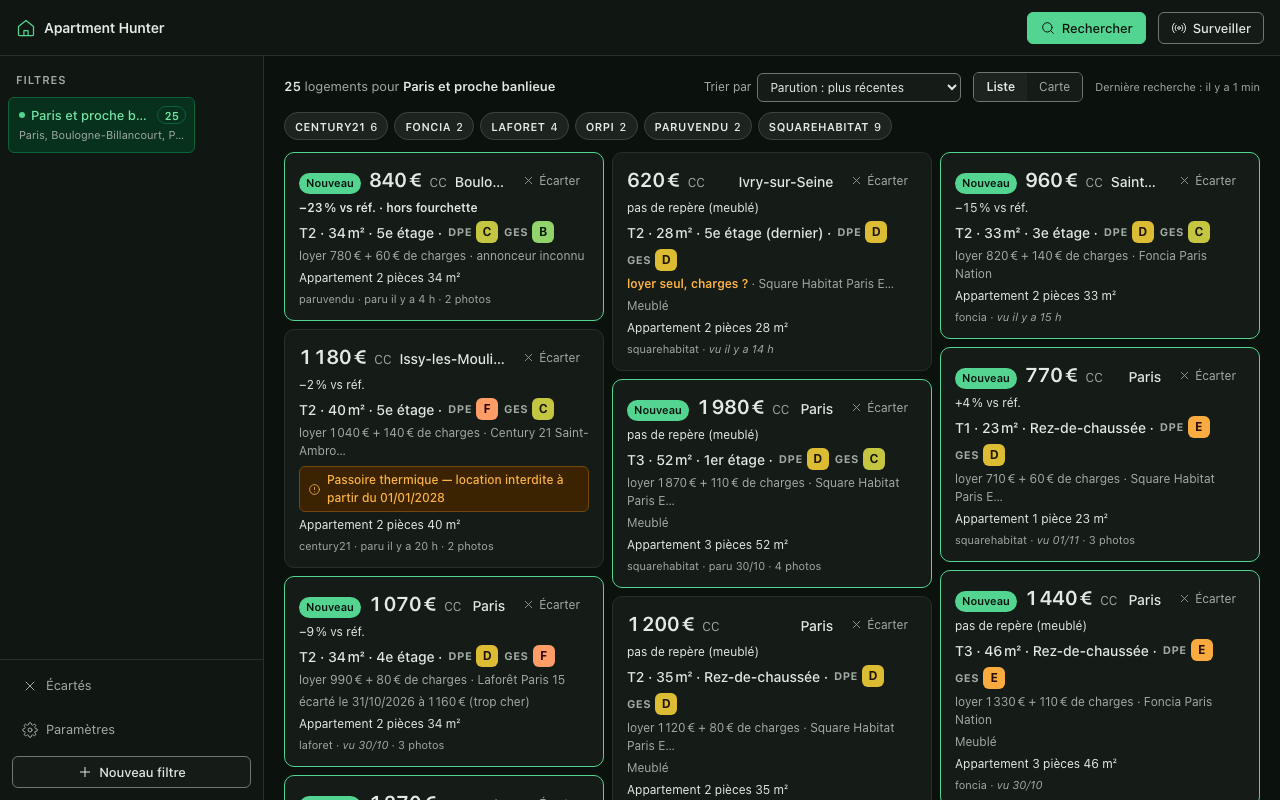
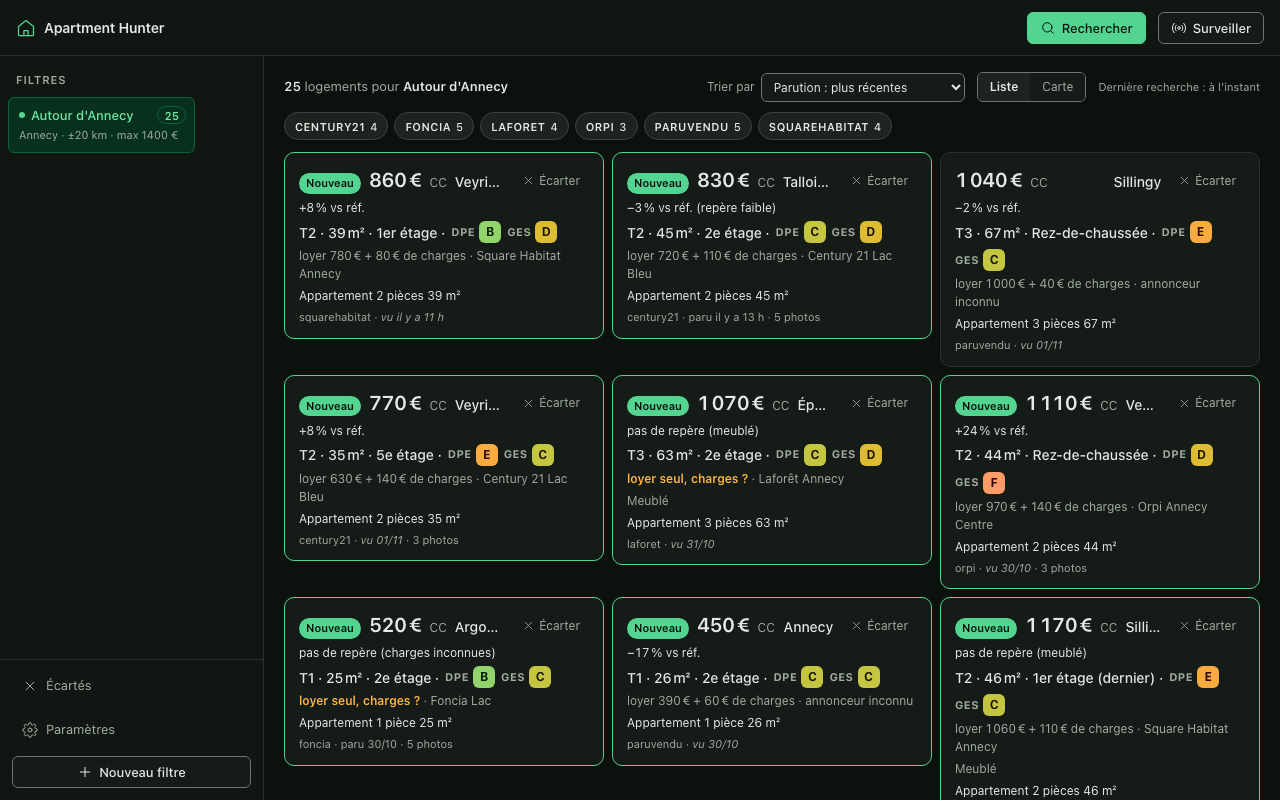
docs(readme): démo, captures, installation pas à pas et feuille de route
The README now opens on a short animated tour and shows each surface with
a screenshot (list in both themes, map, dismissal bar, filter with its zone)
and `hunt review` as an SVG, then walks through installation, a no-crawl
demo, the five steps of daily use, and the site-rules setting with its
responsibility. A roadmap closes it: more sources, more features, UI/UX
and under-the-hood work, all as open leads.

Every capture comes from fictitious data: scripts/seed_demo.py fills a demo
database (Faker, fixed seed, links to example.org), and
scripts/capture_readme_media.py regenerates docs/media/ from it (Playwright,
ffmpeg for the GIF, Rich for the terminal). No scraped listing is shipped.

diff --git a/scripts/seed_demo.py b/scripts/seed_demo.py
@@ -1,4 +1,4 @@
-"""Fill a demo database with fictitious homes in and around Paris, to try the app without crawling.
+"""Fill a demo database with fictitious homes around Annecy, to try the app without crawling.
 
     uv run python scripts/seed_demo.py demo.db
     DATABASE_URL=demo.db uv run hunt serve
@@ -32,37 +32,32 @@ from apartment_hunter.domain.value_objects import (
 from apartment_hunter.infrastructure.crawlers.base_crawler import build_listing_id
 from apartment_hunter.infrastructure.storage.sqlite_repository import SqliteRepository
 
-_SEED: Final = 75000
+_SEED: Final = 74000
 _LISTING_COUNT: Final = 36
 _FILTER_ID: Final = "demo"
-# Paris and the inner suburbs, Paris most often. Like most sources, a demo listing names
-# its commune only: the map pins it at the commune, one pin per commune. Rent references
-# load for the filter cities' departments only, hence one filter city per department.
-_FILTER_CITIES: Final = ["Paris", "Boulogne-Billancourt", "Pantin", "Vincennes"]
-_SUBURBS: Final = (
-    "Boulogne-Billancourt",
-    "Issy-les-Moulineaux",
-    "Levallois-Perret",
-    "Montreuil",
-    "Vincennes",
-    "Saint-Mandé",
-    "Ivry-sur-Seine",
+# Communes within 20 km of Annecy, Annecy twice as often. Like most sources, a demo
+# listing names its commune only: the map pins it at the commune, one pin per commune.
+_COMMUNES: Final = (
+    "Annecy",
+    "Annecy",
+    "Sevrier",
+    "Veyrier-du-Lac",
+    "Argonay",
+    "Poisy",
+    "Épagny Metz-Tessy",
+    "Sillingy",
+    "Saint-Jorioz",
+    "Talloires-Montmin",
+    "Villaz",
 )
-_PARIS_SHARE: Final = 0.6
-# A Paris home carries its arrondissement's postal code: the rent map has no row for
-# Paris as a whole, only one per arrondissement.
-_PARIS_ARRONDISSEMENTS: Final = (3, 5, 9, 10, 11, 11, 12, 13, 14, 15, 15, 17, 18, 19, 20)
-# €/m² per month, drawn per listing: Paris above its suburbs, as on the Carte des loyers.
-_PARIS_RENT_PER_M2: Final = (27, 38)
-_SUBURB_RENT_PER_M2: Final = (20, 29)
 _SOURCES: Final = ("orpi", "foncia", "century21", "laforet", "paruvendu", "squarehabitat")
 # Each network's ads carry one of its own branches; ParuVendu is mostly private owners.
 _AGENCIES: Final = {
-    "orpi": "Orpi Paris Bastille",
-    "foncia": "Foncia Paris Nation",
-    "century21": "Century 21 Saint-Ambroise",
-    "laforet": "Laforêt Paris 15",
-    "squarehabitat": "Square Habitat Paris Est",
+    "orpi": "Orpi Annecy Centre",
+    "foncia": "Foncia Lac",
+    "century21": "Century 21 Lac Bleu",
+    "laforet": "Laforêt Annecy",
+    "squarehabitat": "Square Habitat Annecy",
 }
 # Faker draws a dict's keys weighted by their values: mostly C and D, as in the area.
 _DPE_WEIGHTS: Final = OrderedDict(
@@ -71,16 +66,13 @@ _DPE_WEIGHTS: Final = OrderedDict(
 
 
 def build_demo_listings(fake: Faker, now: datetime) -> list[Listing]:
-    """Fictitious but plausible homes: rents by size and place, scattered over the radius."""
+    """Fictitious but plausible homes: rents by size, scattered over the radius."""
     listings: list[Listing] = []
     for index in range(_LISTING_COUNT):
-        in_paris = fake.random.random() < _PARIS_SHARE
-        city = "Paris" if in_paris else fake.random_element(_SUBURBS)
-        postal_code = f"750{fake.random_element(_PARIS_ARRONDISSEMENTS):02d}" if in_paris else None
-        rent_low, rent_high = _PARIS_RENT_PER_M2 if in_paris else _SUBURB_RENT_PER_M2
+        city = fake.random_element(_COMMUNES)
         rooms = fake.random_element((1, 1, 2, 2, 2, 3, 3, 4))
-        surface = fake.random_int(14, 26) + (rooms - 1) * fake.random_int(12, 19)
-        rent = Decimal(round(surface * fake.random_int(rent_low, rent_high) / 10) * 10)
+        surface = fake.random_int(18, 30) + (rooms - 1) * fake.random_int(14, 22)
+        rent = Decimal(round(surface * fake.random_int(15, 23) / 10) * 10)
         charges = Decimal(fake.random_element((0, 40, 60, 80, 110, 140)))
         source = fake.random_element(_SOURCES)
         url = f"https://example.org/annonce/{source}/{fake.uuid4()}"
@@ -91,7 +83,7 @@ def build_demo_listings(fake: Faker, now: datetime) -> list[Listing]:
                 url=url,
                 title=f"Appartement {rooms} pièce{'s' if rooms > 1 else ''} {surface} m²",
                 source=source,
-                location=Location(city=city, postal_code=postal_code),
+                location=Location(city=city),
                 price=Price(amount=rent, charges=charges or None),
                 published_at=published,
                 published_at_source=(
@@ -125,18 +117,18 @@ async def seed(path: str) -> None:
     finally:
         # An open connection keeps its thread alive: an error would hang instead of exit.
         await repository.close()
-    print(f"{_LISTING_COUNT} fictitious listings in {path}, filter « Paris et proche banlieue ».")
+    print(f"{_LISTING_COUNT} fictitious listings in {path}, filter « Autour d'Annecy ».")
 
 
 async def _fill(repository: SqliteRepository, fake: Faker, now: datetime) -> None:
     await repository.save_filter(
         SearchFilter(
             id=_FILTER_ID,
-            name="Paris et proche banlieue",
-            cities=_FILTER_CITIES,
-            radius_km=10,
-            max_price=2000,
-            min_surface_m2=20,
+            name="Autour d'Annecy",
+            cities=["Annecy"],
+            radius_km=20,
+            max_price=1400,
+            min_surface_m2=25,
         )
     )
     listings = build_demo_listings(fake, now)

diff --git a/README.md b/README.md
@@ -49,7 +49,7 @@ chaque commit (ruff, format, mypy strict, tests).
 
 ### Essayer sans rien crawler
 
-Une base de démonstration, remplie d'annonces fictives à Paris et en proche banlieue :
+Une base de démonstration, remplie d'annonces fictives autour d'Annecy :
 
 ```bash
 uv run python scripts/seed_demo.py demo.db
@@ -104,6 +104,15 @@ uv run hunt watch               # recrawle à la cadence du filtre, alerte des n
 Ou **Surveiller** dans l'interface. Deux cadences par filtre : la recherche (30 min par
 défaut, 5 au minimum) et l'alerte (15 min).
 
+### 5. Règles des sites (à vos risques)
+
+Par défaut, l'outil respecte le `robots.txt` et les conditions d'utilisation de chaque
+site. Dans **Paramètres**, ou avec `hunt rules ignore`, vous pouvez les ignorer : cela
+rouvre Bien'ici, Locservice, FNAIM, 2A Immobilier, SBM Immobilier et les pages que
+`robots.txt` ferme. Ces sites interdisent l'extraction de leurs annonces : **vous en êtes
+seul responsable**. Les protections anti-bot, elles, ne sont jamais contournées
+([ADR-0012](docs/decisions/0012-le-chasseur-peut-ignorer-les-regles-des-sites.md)).
+
 ---
 
 ## Sources
@@ -128,33 +137,6 @@ défaut, 5 au minimum) et l'alerte (15 min).
 Sources retirées : **SeLoger** (ne passait DataDome qu'en masquant l'automatisation), **Figaro Immo** et **EntreParticuliers** (Cloudflare refuse un client qui ne se fait pas passer pour Chrome), Jinka (login), **LeBonCoin** (captcha DataDome), **Logic-Immo** (SPA sans accès scraping pur). Détails : [Sources](docs/functional/sources.md).
 
 Le réglage **Règles des sites** (Paramètres, ou `hunt rules ignore`) rouvre à vos risques les sources refusées pour leur `robots.txt` ou leurs CGU ; les protections anti-bot restent respectées ([ADR-0012](docs/decisions/0012-le-chasseur-peut-ignorer-les-regles-des-sites.md)).
-
----
-
-## Documentation
-
-### Fonctionnelle
-| Document | Description |
-|----------|-------------|
-| [Vue d'ensemble](docs/functional/overview.md) | Comment ça marche de bout en bout |
-| [Glossaire](docs/functional/glossaire.md) | Le vocabulaire du domaine, mot par mot, et les écarts connus |
-| [Filtres](docs/functional/filters.md) | Tous les critères de recherche expliqués |
-| [Notifications](docs/functional/notifications.md) | Terminal + signal in-app |
-| [Sources](docs/functional/sources.md) | Sites scrapés, données disponibles, limites |
-| [Recherche de sources, novembre 2026](docs/research/sources-2026-11.md) | 14 sites examinés au 2026-11-01 ; FNAIM et 2A Immobilier ont depuis rejoint les sources sous l'ADR-0012 |
-
-### Technique
-| Document | Description |
-|----------|-------------|
-| [Architecture](docs/technical/architecture.md) | Clean Architecture, couches, règle de dépendance |
-| [Crawlers](docs/technical/crawlers.md) | Fonctionnement interne, anti-bot, ajouter une source |
-| [Modèle de données](docs/technical/data-model.md) | Entités, value objects, schéma SQLite |
-| [Scheduler](docs/technical/scheduler.md) | Mode watch, boucle de polling, concurrence |
-| [Sécurité](docs/technical/security.md) | Credentials, rate limiting, robots.txt |
-| [Conventions de code](docs/technical/conventions.md) | Règles suivies par le code et la doc |
-| [Décisions (ADR)](docs/decisions/README.md) | Les arbitrages métier actés, et ce qu'ils interdisent |
-| [Design de l'interface](DESIGN.md) | Thème Clair / Sombre / Système, tokens OKLCH, composants, accessibilité |
-| [Produit](PRODUCT.md) | Utilisateur, objectif, principes qui justifient le design |
 
 ---
 
@@ -224,7 +206,7 @@ hunt rules honour                  # Les respecter de nouveau (défaut)
 | [Filtres](docs/functional/filters.md) | Tous les critères de recherche expliqués |
 | [Notifications](docs/functional/notifications.md) | Terminal + signal in-app |
 | [Sources](docs/functional/sources.md) | Sites scrapés, données disponibles, limites |
-| [Recherche de sources, novembre 2026](docs/research/sources-2026-11.md) | 14 sites examinés au 2026-11-01 |
+| [Recherche de sources, novembre 2026](docs/research/sources-2026-11.md) | 14 sites examinés au 2026-11-01 ; FNAIM et 2A Immobilier ont depuis rejoint les sources sous l'ADR-0012 |
 
 ### Technique
 | Document | Description |
@@ -277,8 +259,8 @@ lointaine.
 ### Plus de sources
 - **PAP**, dès que sa protection Cloudflare laisse passer un client honnête : le crawler
   est prêt, limité à ce que son `robots.txt` autorise (la page de la commune).
-- **Les agences locales indépendantes**, sur leurs propres sites, quand leurs conditions
-  d'utilisation le permettent.
+- **Les agences locales** que seule la FNAIM publie aujourd'hui (Agence BFM, Entre 2 Lacs,
+  Like My Home…), sur leurs propres sites.
 - **Les réseaux à faible volume** écartés pour l'instant (ERA, Capifrance, iad, Nestenn),
   si leur stock autour de la ville cherchée le justifie.
 - **Des accords** avec les portails qui refusent la collecte : c'est la seule voie propre
@@ -289,6 +271,8 @@ lointaine.
   distance au travail pourraient compter aussi.
 - **L'historique d'un logement** : baisses de loyer, republications, durée en ligne.
 - **Des alertes ailleurs que dans le terminal** (notification du système, e-mail), en option.
+- **Les charges partout** : la FNAIM affiche « charges ? » alors que sa page détail les
+  donne ; le chauffage collectif de SBM n'est pas encore repris.
 - **La Carte des loyers préchargée** au démarrage de `hunt serve`, plutôt qu'à la première
   recherche.
 
@@ -302,12 +286,3 @@ lointaine.
 ### Sous le capot
 - Un seul client HTTP (`httpx`) au lieu de deux, une horloge injectée partout, un plafond
   sur la taille des réponses, une CI durcie (actions épinglées, `uv sync --locked`).
-
----
-
-## Licence
-
-[MIT](LICENSE). Les skills de `.claude/skills/` reprises de
-[mattpocock/skills](https://github.com/mattpocock/skills) restent sous sa licence MIT
-([notice](.claude/skills/THIRD_PARTY_LICENSE)). Le code est libre ; les annonces collectées restent la propriété de leurs
-éditeurs, et chaque utilisateur répond de l'usage qu'il fait de l'outil.
